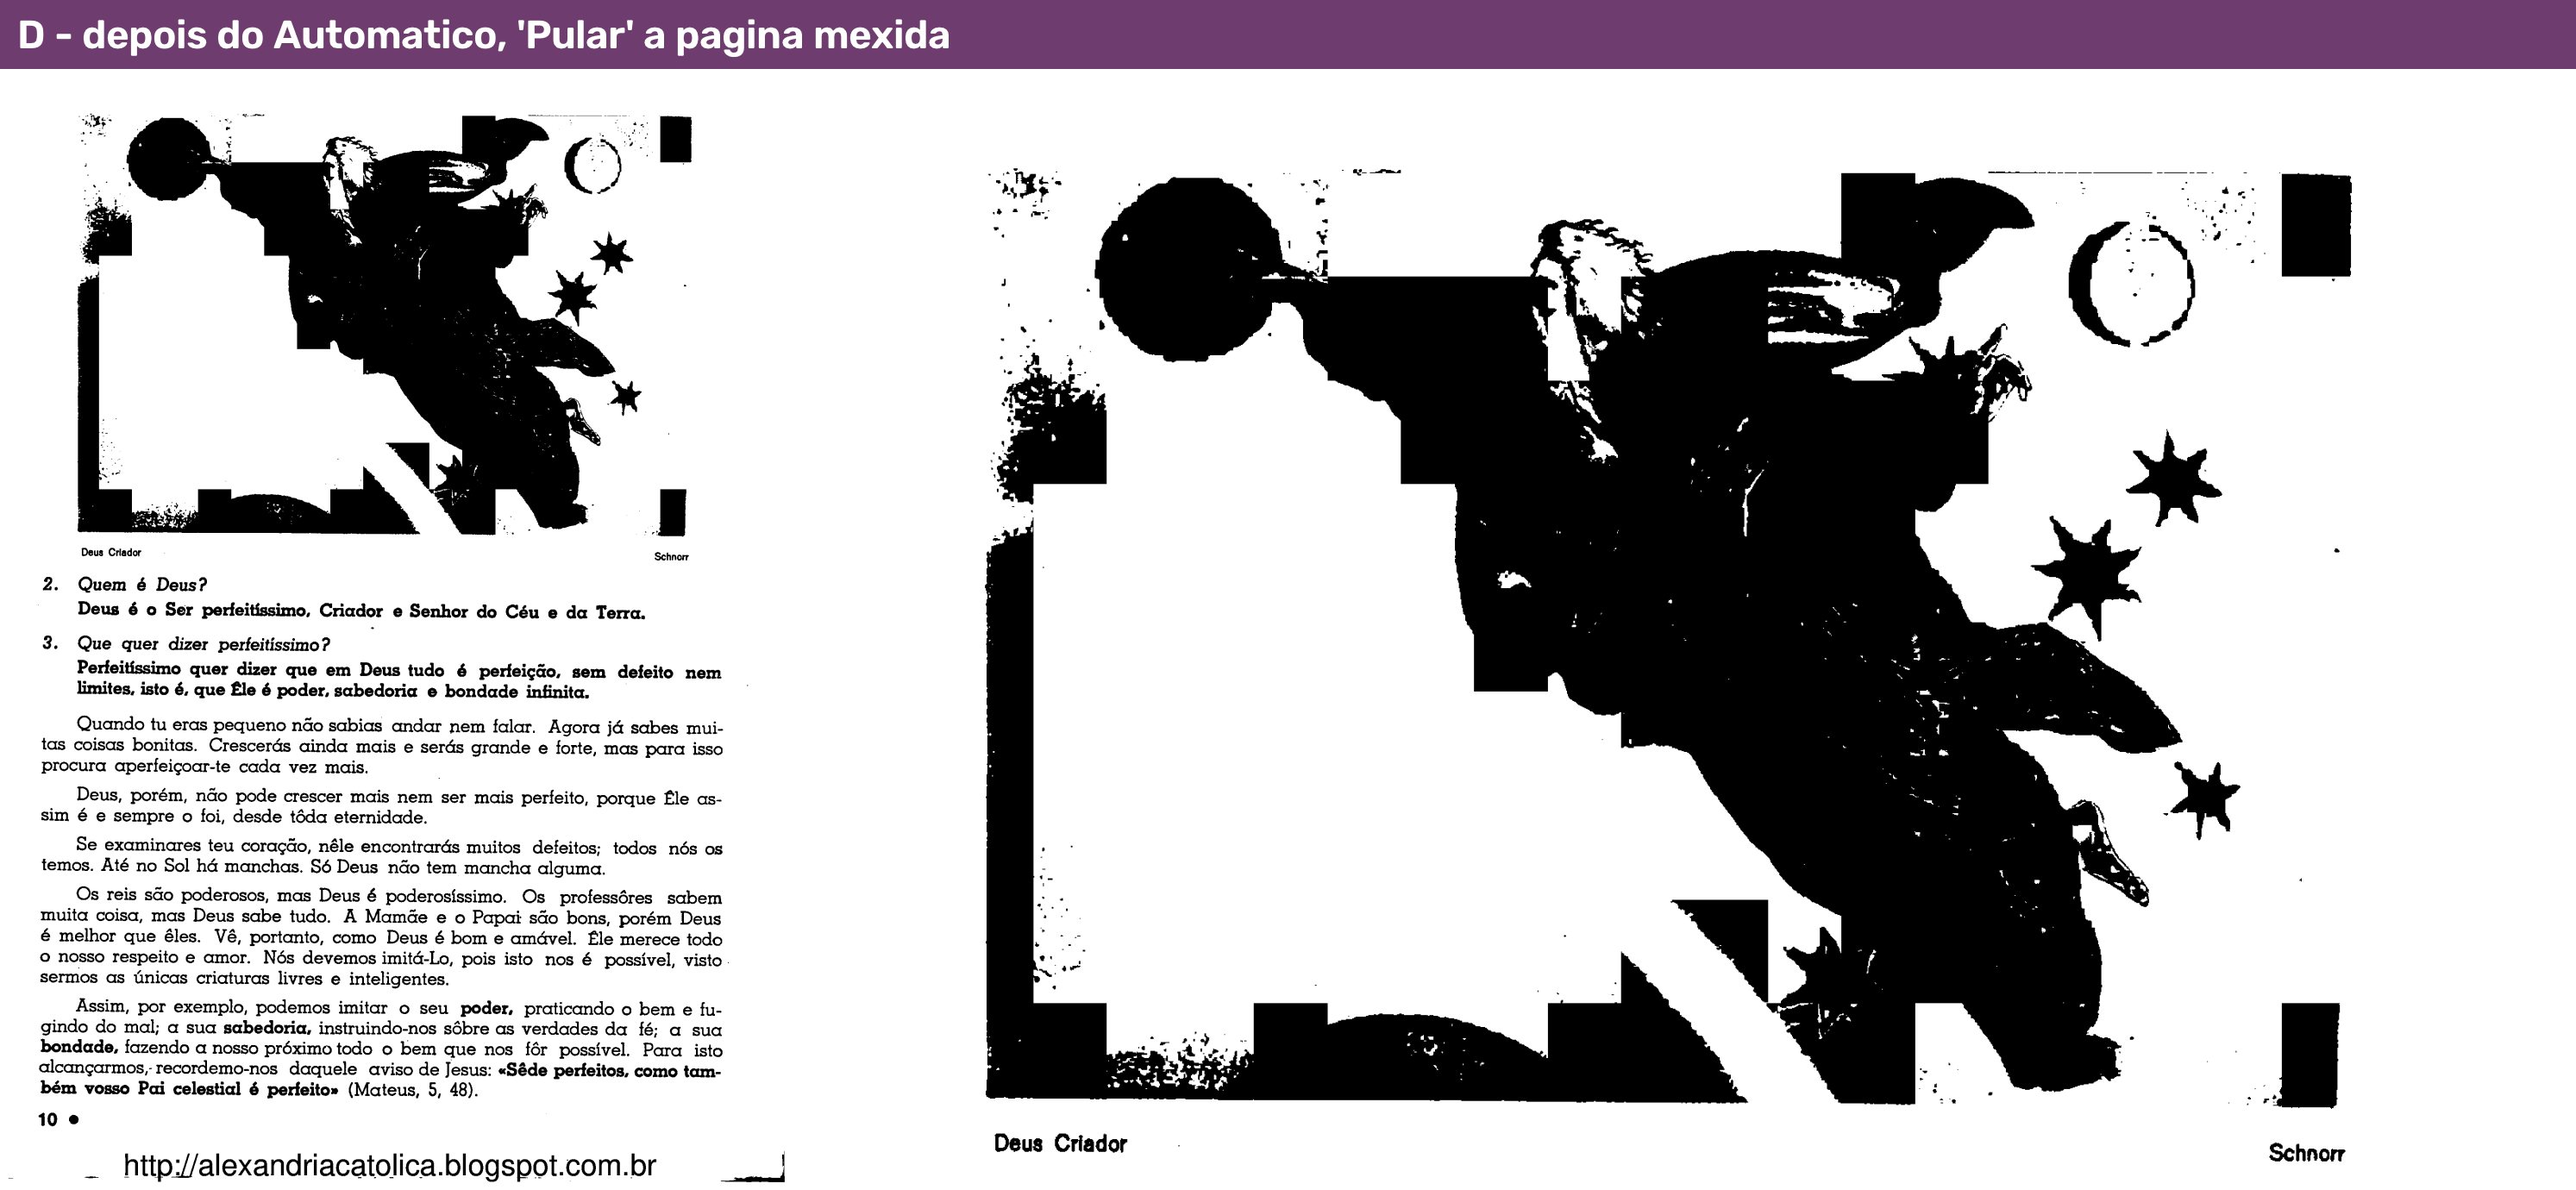
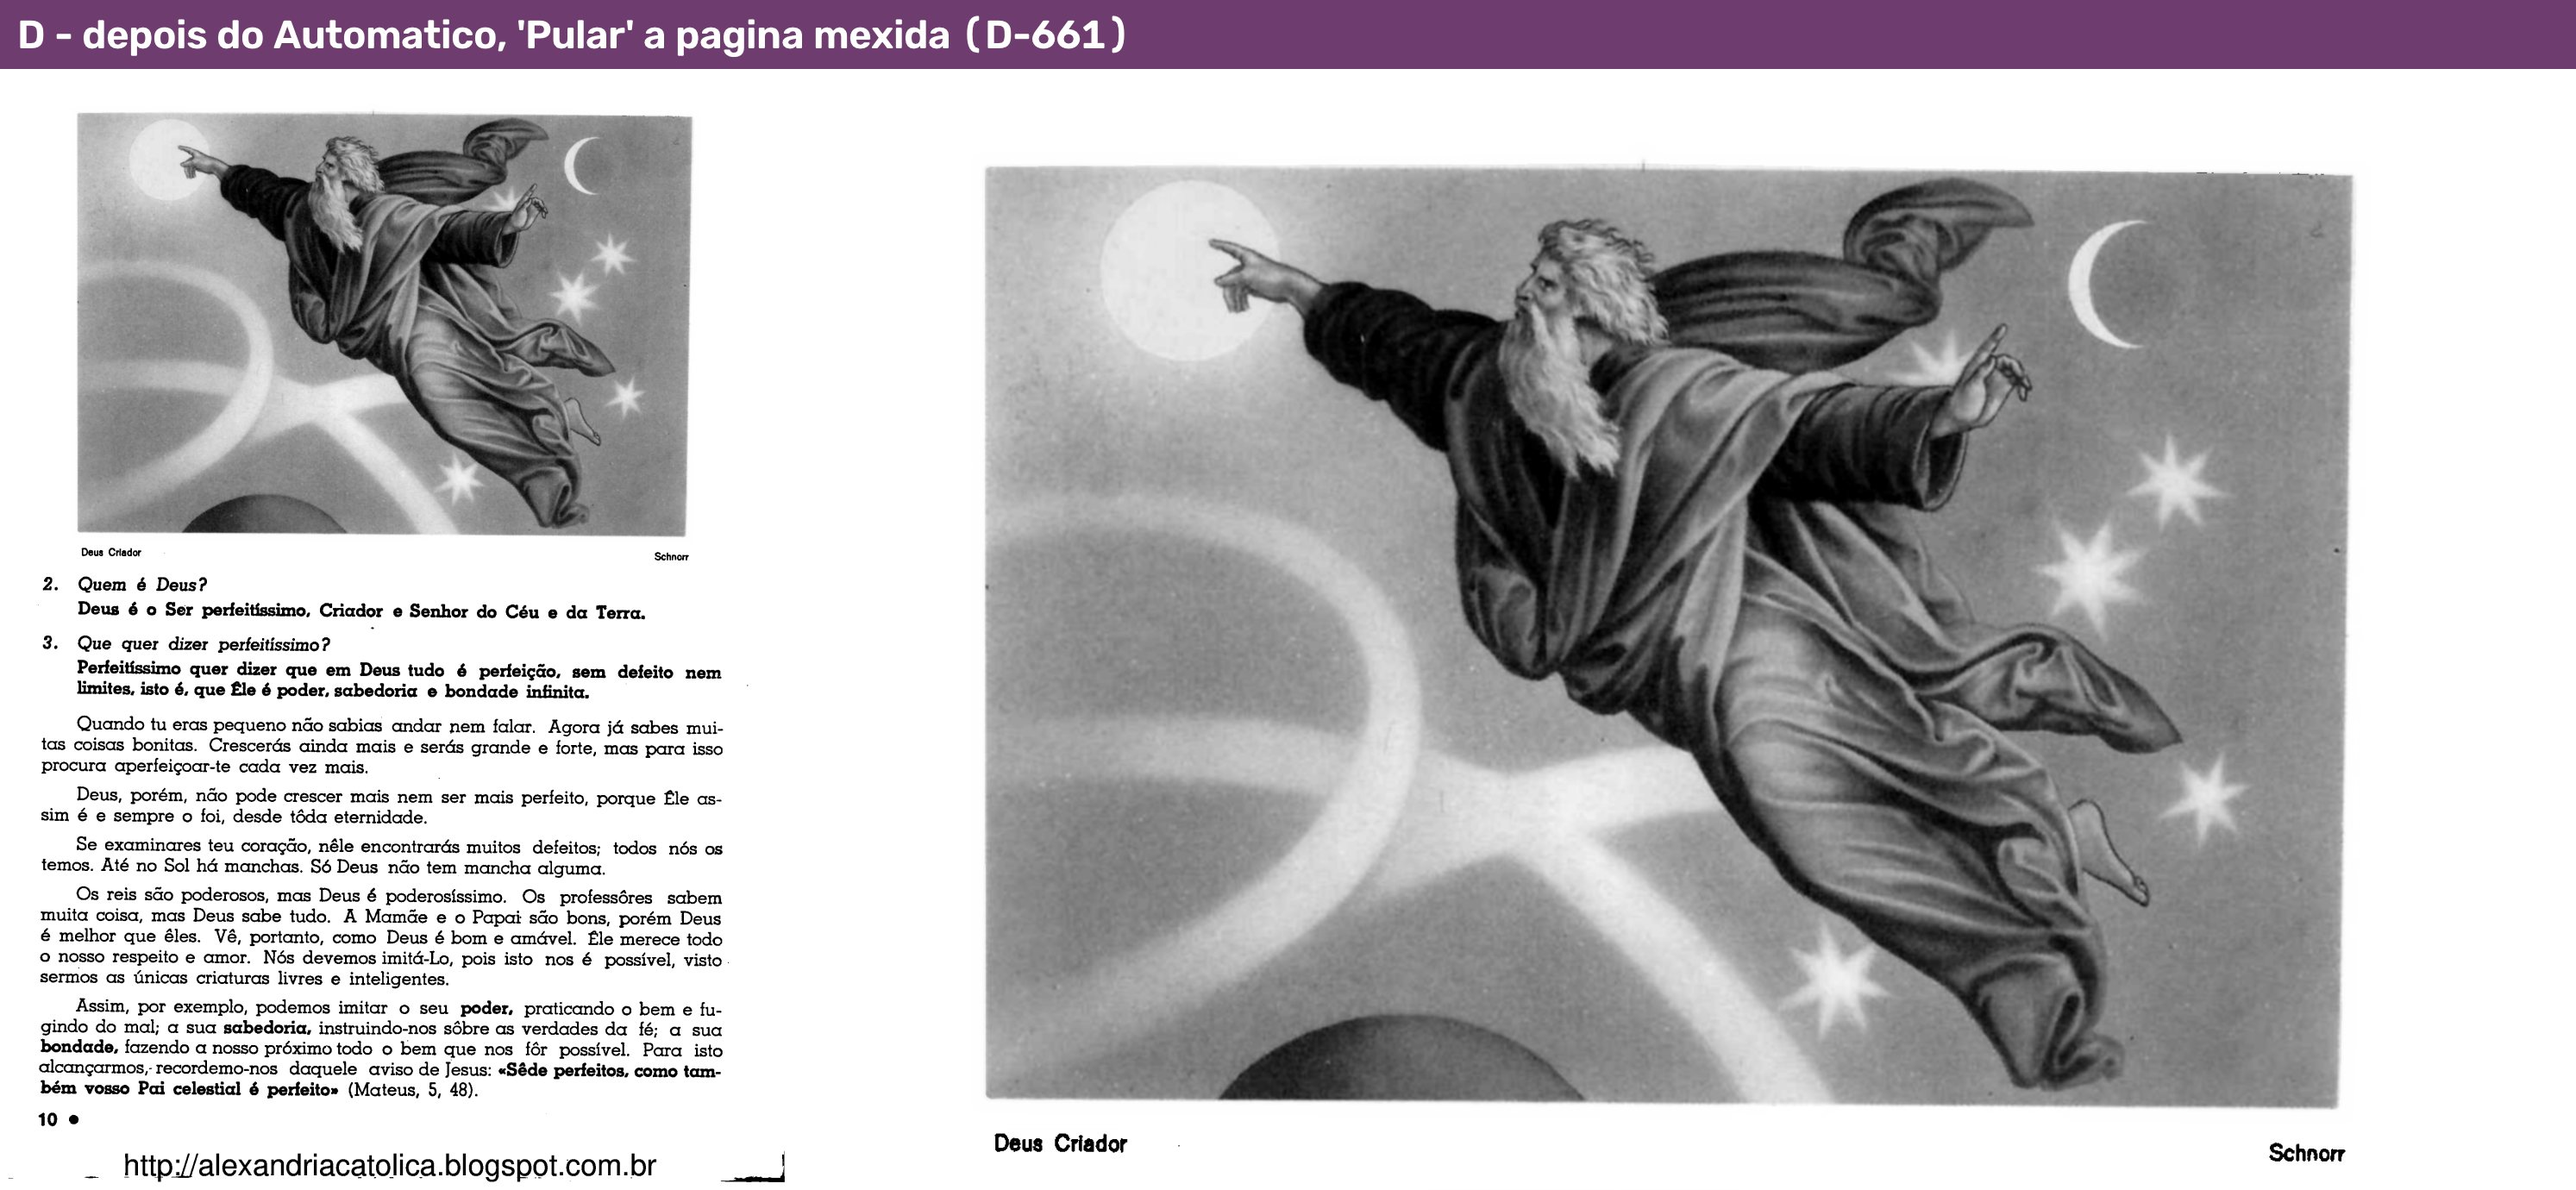
Prova da D-661 no livro dele: com 'Pular', a pagina 8 sai igual a (A), ponto por ponto
q2-d-pulou.jpg igual a q2-a-a-mao.jpg (0 pontos diferentes), sem procurar de novo;
'Rodar nelas tambem' (q2-b) continua passando por cima; com o cinza (q2-c) igual.

diff --git a/relatorios/gravura-a-mao/prova_pergunta2.py b/relatorios/gravura-a-mao/prova_pergunta2.py
@@ -129,7 +129,8 @@ def main(pdf: str, pasta: str) -> None:
                     "a_marcacao_da_maquina_vale": etapas.a_marcacao_da_maquina_vale(projeto, pagina),
                     "areas_guardadas_na_pagina": len(pagina.selecao or []),
                     "mexida_a_mao": list(getattr(pagina, "mexida_a_mao", []) or []),
-                    "gravura_feita_com": bool(getattr(pagina, "gravura_feita_com", ""))})
+                    "gravura_feita_com": bool(getattr(pagina, "gravura_feita_com", "")),
+                    "gravura_achada_a_mao": bool(getattr(pagina, "gravura_achada_a_mao", False))})
         finally:
             doc.close()
         imagens[nome] = img
@@ -147,7 +148,7 @@ def main(pdf: str, pasta: str) -> None:
              "B - depois do Automatico, 'Rodar nelas tambem' (Gravuras e fotos desmarcada)",
              (40, 40, 180)),
             ("q2-c-com-cinza", c, "C - como B, com Gravuras em tons de cinza marcada", (140, 90, 30)),
-            ("q2-d-pulou", d, "D - depois do Automatico, 'Pular' a pagina mexida", (110, 60, 110))):
+            ("q2-d-pulou", d, "D - depois do Automatico, 'Pular' a pagina mexida (D-661)", (110, 60, 110))):
         cv2.imwrite(str(saida / f"{nome}.jpg"), _quadro(img, titulo, cor), [cv2.IMWRITE_JPEG_QUALITY, 84])
 
     def igual(x, y):
